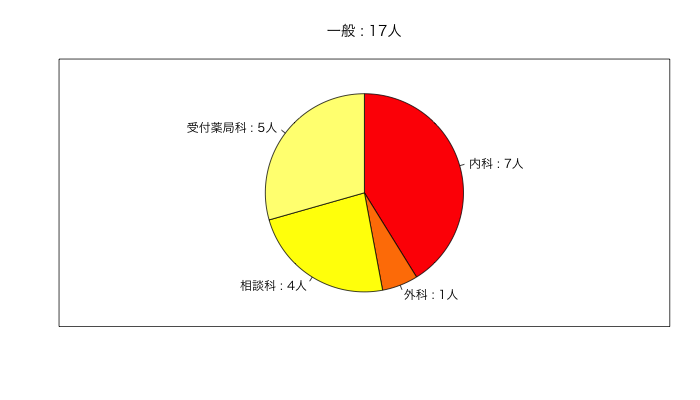
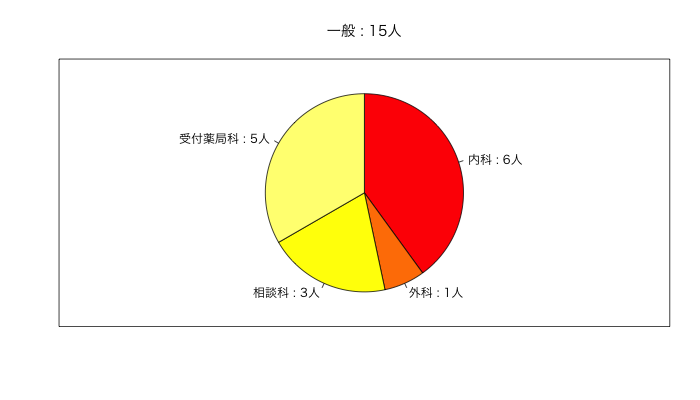
更新

diff --git a/ReadMe.md b/ReadMe.md
@@ -24,8 +24,10 @@
 |医院長|専門科|Kirara||
 |医院長|専門科|じーじ||
 |医院長|相談科|あめ||
+|副医院長|ナース科|さきりん||
 |副医院長|受付薬局科|Sherry||
-|副医院長補佐|ナース科|さきりん||
+|部長|内科|優亜||
+|部長|相談科|たくま|<img src="https://github.com/fairy00000/organization/blob/master/image/new.gif">|
 |部長|相談科|れい||
 |部長|受付薬局科|宇佐||
 |主任|内科|Fx||
@@ -34,11 +36,9 @@
 |主任|内科|まるきゅう||
 |主任|内科|みなみん||
 |主任|内科|ルミカ||
-|主任|内科|優亜||
 |主任|外科|ノッチィ||
 |主任|相談科|saaya||
 |主任|相談科|かお||
-|主任|相談科|たくま|<img src="https://github.com/fairy00000/organization/blob/master/image/new.gif">|
 |主任|相談科|みさき||
 |主任|受付薬局科|nami||
 |主任|受付薬局科|かのん||
@@ -52,12 +52,12 @@
 |:--|:---:|:---:|:---:|:---:|:---:|:---:|:---:|:---:|:---:|
 |オーナー|1|0|0|0|0|0|0|0|1|
 |医院長|0|0|1|2|1|0|0|0|4|
-|副医院長|0|0|0|0|0|0|0|1|1|
-|副医院長補佐|0|0|0|0|0|0|1|0|1|
+|副医院長|0|0|0|0|0|0|1|1|2|
+|副医院長補佐|0|0|0|0|0|0|0|0|0|
 |医局長|0|0|0|0|0|0|0|0|0|
 |事務局長|0|0|0|0|0|0|0|0|0|
-|部長|0|0|0|0|1|0|0|1|2|
-|主任|0|7|1|0|4|0|0|5|17|
+|部長|0|1|0|0|2|0|0|1|4|
+|主任|0|6|1|0|3|0|0|5|15|
 |合計|1|7|2|2|6|0|1|7|26|
 
 <img src="https://github.com/fairy00000/organization/blob/master/image/Member.png">
